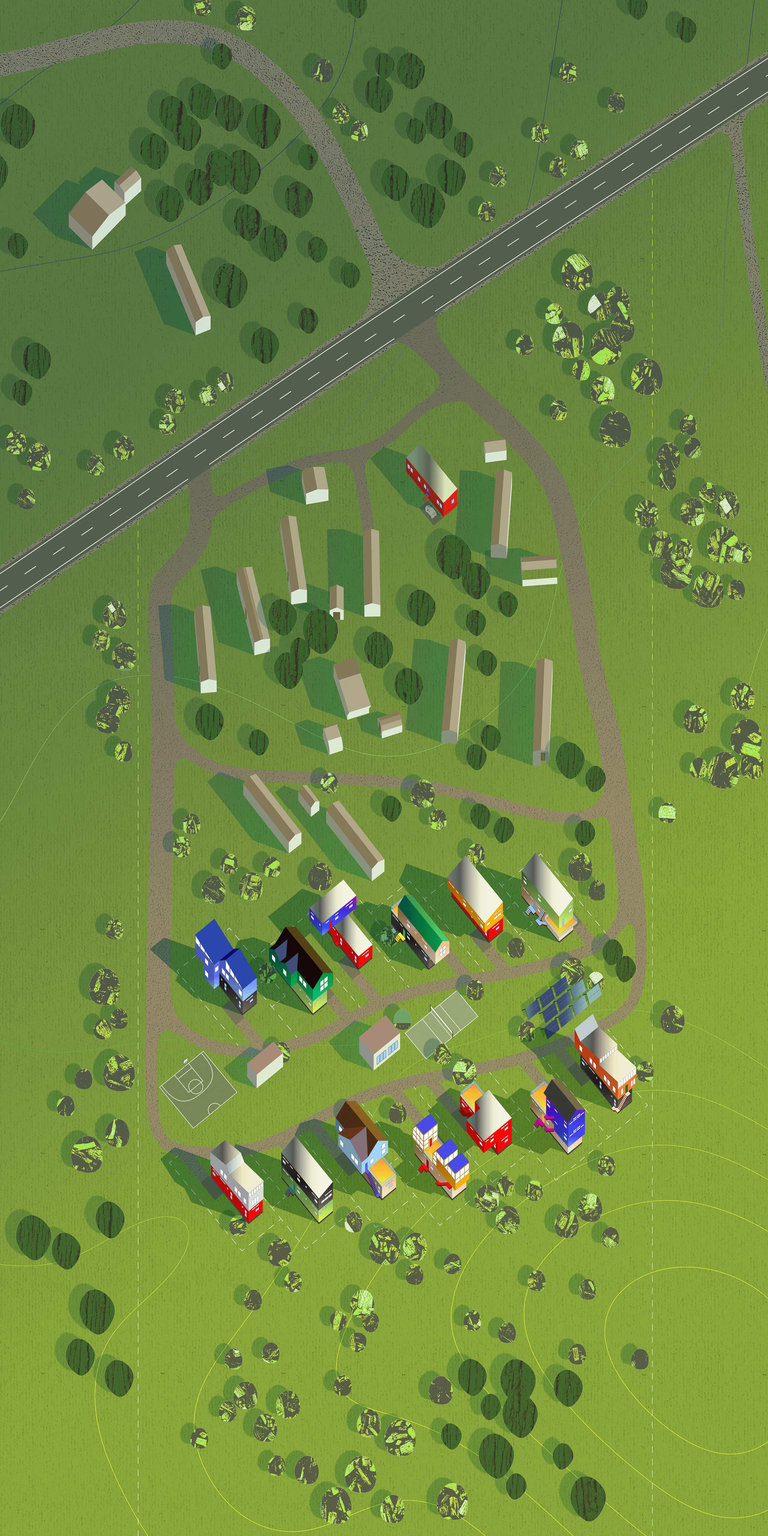
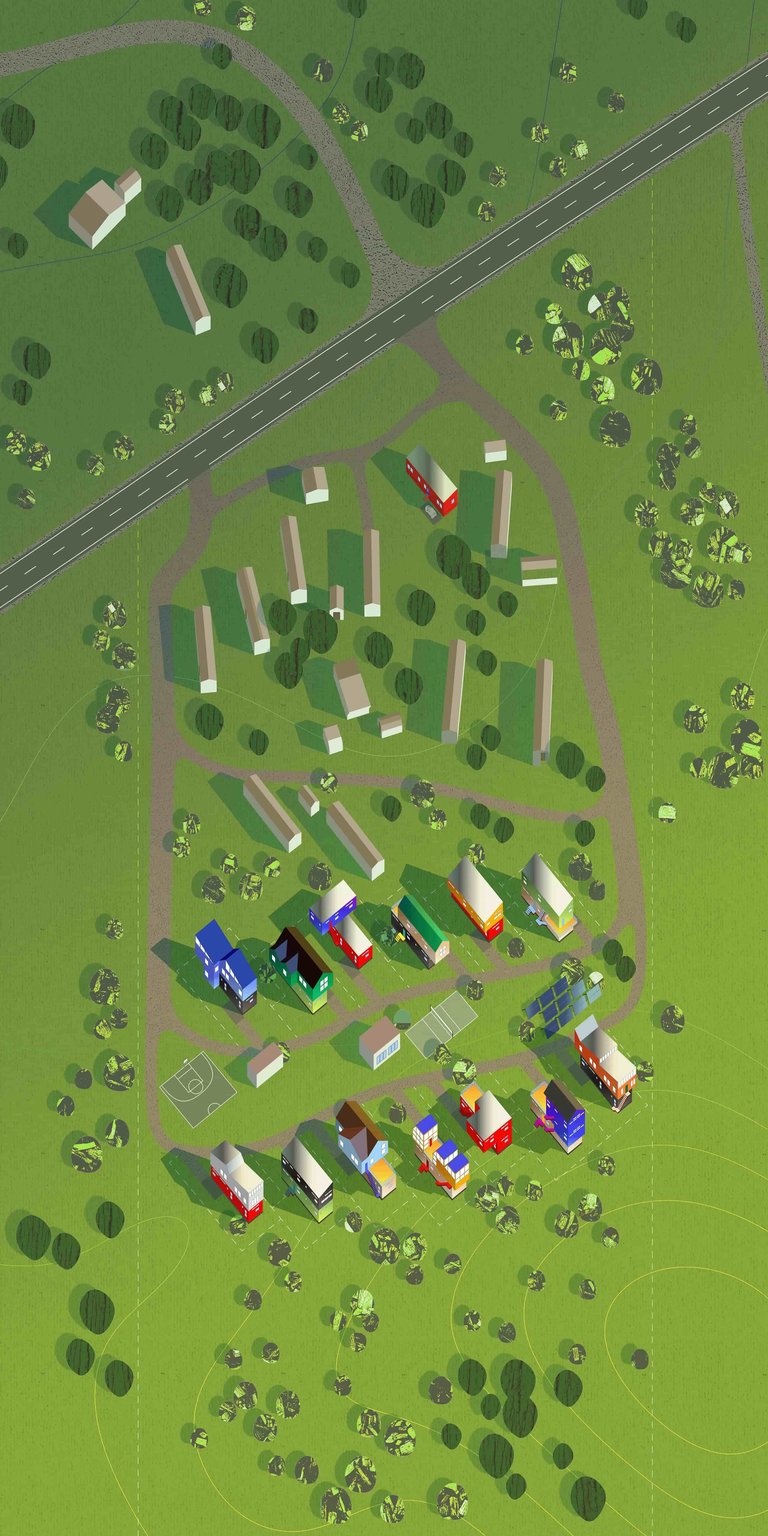
Replace gallery assets with compressed versions

diff --git a/index.html b/index.html
@@ -32,7 +32,7 @@
   <main class="gallery-page">
     <section class="masonry" aria-label="Project gallery">
       <a class="tile" href="projects/doyoureachme.html" aria-label="Open Do you reach me if you stretch? project">
-        <img src="assets/images/dyrm-site.png" alt="Blue neon architecture details" width="756" height="1102" loading="eager" fetchpriority="high" decoding="async" />
+        <img src="assets/images/dyrm-site.jpg" alt="Blue neon architecture details" width="756" height="1102" loading="eager" fetchpriority="high" decoding="async" />
         <span class="tile-meta">
           <strong>Do you reach me if you stretch?</strong>
           <em>Fall 2025</em>
